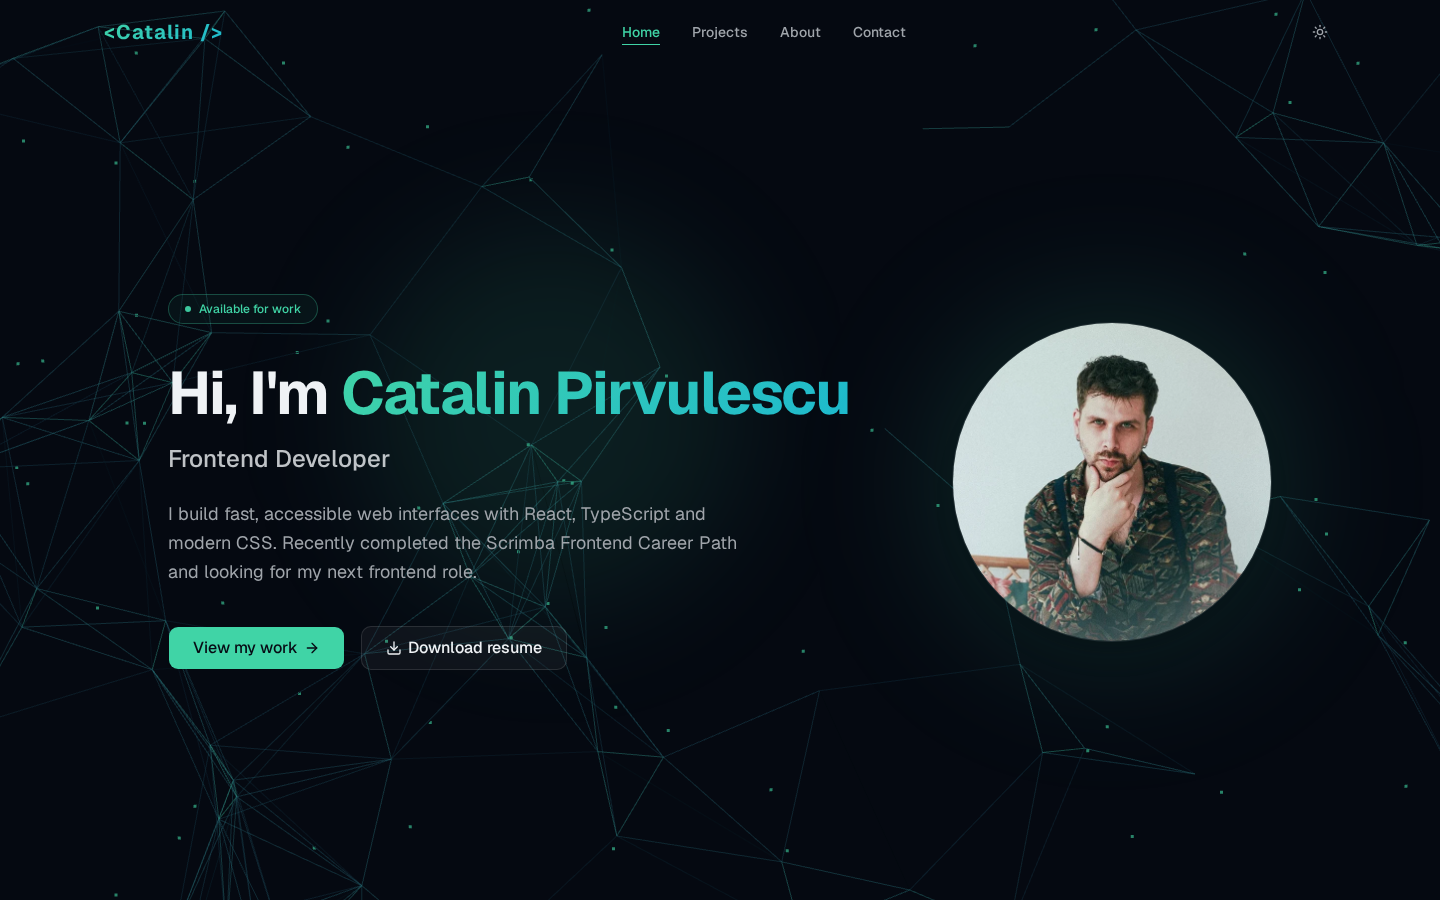
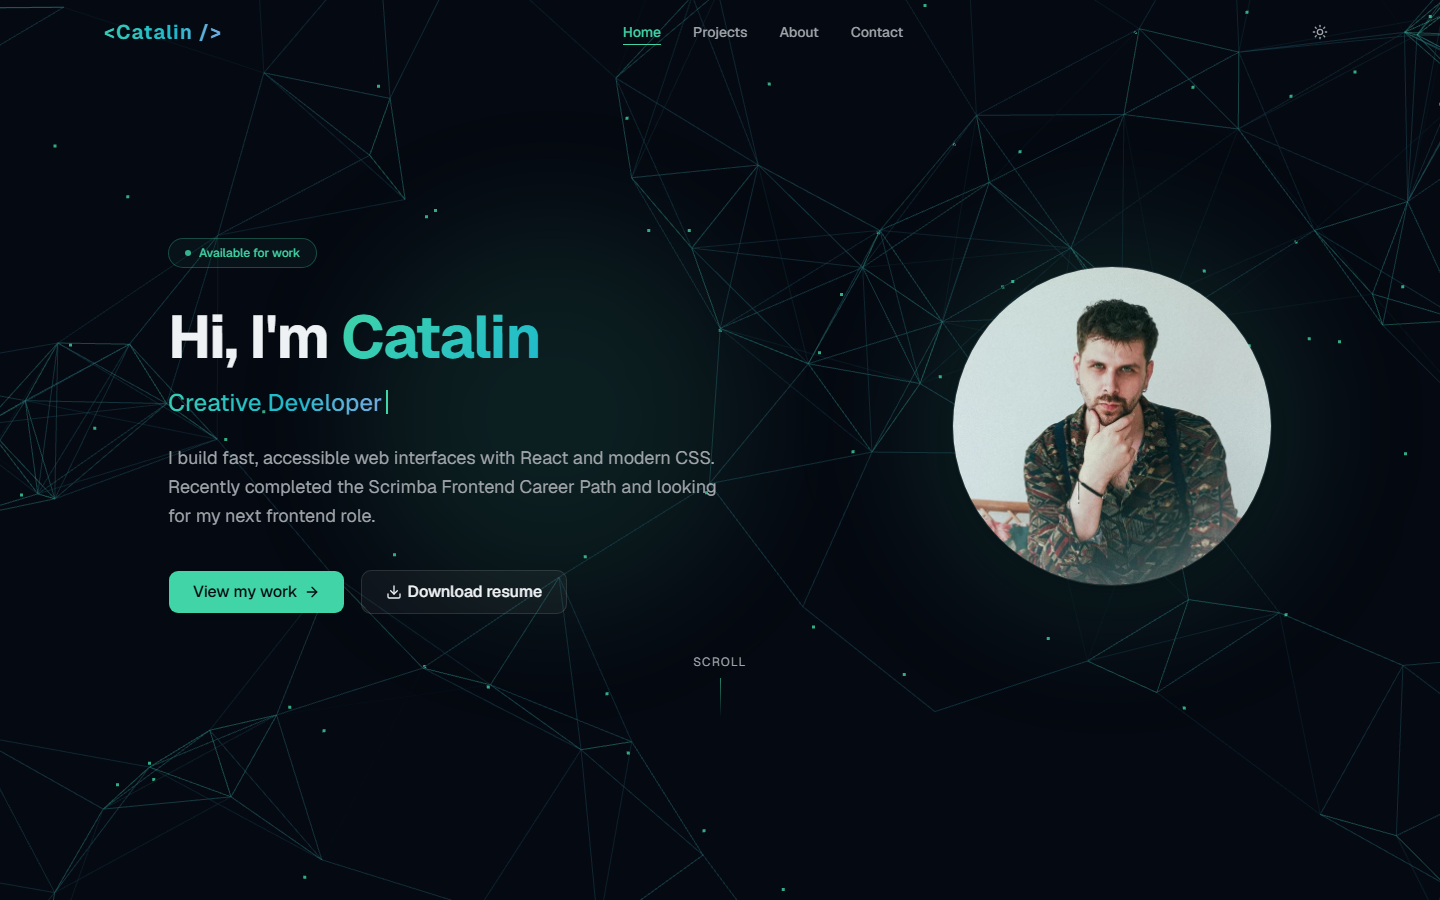
content: remove TypeScript from skills and site copy
- Drop TypeScript from the About skills list.
- Hero intro now reads "with React and modern CSS".
- Meta and Open Graph descriptions no longer mention TypeScript.
- Regenerate the Open Graph card (and its template) with the tagline
  "Frontend Developer — React · Modern CSS".
- README tech stack line and preview screenshot updated to match.

Build tooling (tsc, tsconfig, typescript-eslint) is unchanged because
the codebase itself is still written in TypeScript.

diff --git a/index.html b/index.html
@@ -7,13 +7,13 @@
     <title>Catalin Pirvulescu — Frontend Developer</title>
     <meta
       name="description"
-      content="Frontend developer building fast, accessible web apps with React and TypeScript. View my projects and get in touch."
+      content="Frontend developer building fast, accessible web apps with React. View my projects and get in touch."
     />
     <meta name="author" content="Catalin Pirvulescu" />
     <meta property="og:title" content="Catalin Pirvulescu — Frontend Developer" />
     <meta
       property="og:description"
-      content="Frontend developer building fast, accessible web apps with React and TypeScript."
+      content="Frontend developer building fast, accessible web apps with React."
     />
     <meta property="og:type" content="website" />
     <meta property="og:url" content="https://catalinpirvulescu.netlify.app/" />

diff --git a/src/components/Hero.tsx b/src/components/Hero.tsx
@@ -52,9 +52,9 @@ export default function Hero() {
             </p>
 
             <p className="text-muted-foreground text-lg max-w-xl mx-auto md:mx-0 mb-10 leading-relaxed">
-              I build fast, accessible web interfaces with React, TypeScript
-              and modern CSS. Recently completed the Scrimba Frontend Career
-              Path and looking for my next frontend role.
+              I build fast, accessible web interfaces with React and modern
+              CSS. Recently completed the Scrimba Frontend Career Path and
+              looking for my next frontend role.
             </p>
 
             <div className="flex flex-col sm:flex-row gap-4 justify-center md:justify-start">

diff --git a/src/components/About.tsx b/src/components/About.tsx
@@ -10,7 +10,6 @@ const skills = [
   "HTML",
   "CSS",
   "JavaScript",
-  "TypeScript",
   "React",
   "Bootstrap",
   "Firebase",

diff --git a/README.md b/README.md
@@ -16,7 +16,7 @@ Personal portfolio and digital resume of **Catalin Pirvulescu**, frontend develo
 
 ## Tech stack
 
-React 19 · TypeScript · Vite · Tailwind CSS v4 · shadcn/ui (Base UI) · three.js · Geist
+React 19 · Vite · Tailwind CSS v4 · shadcn/ui (Base UI) · three.js · Geist
 
 ## Development
 
